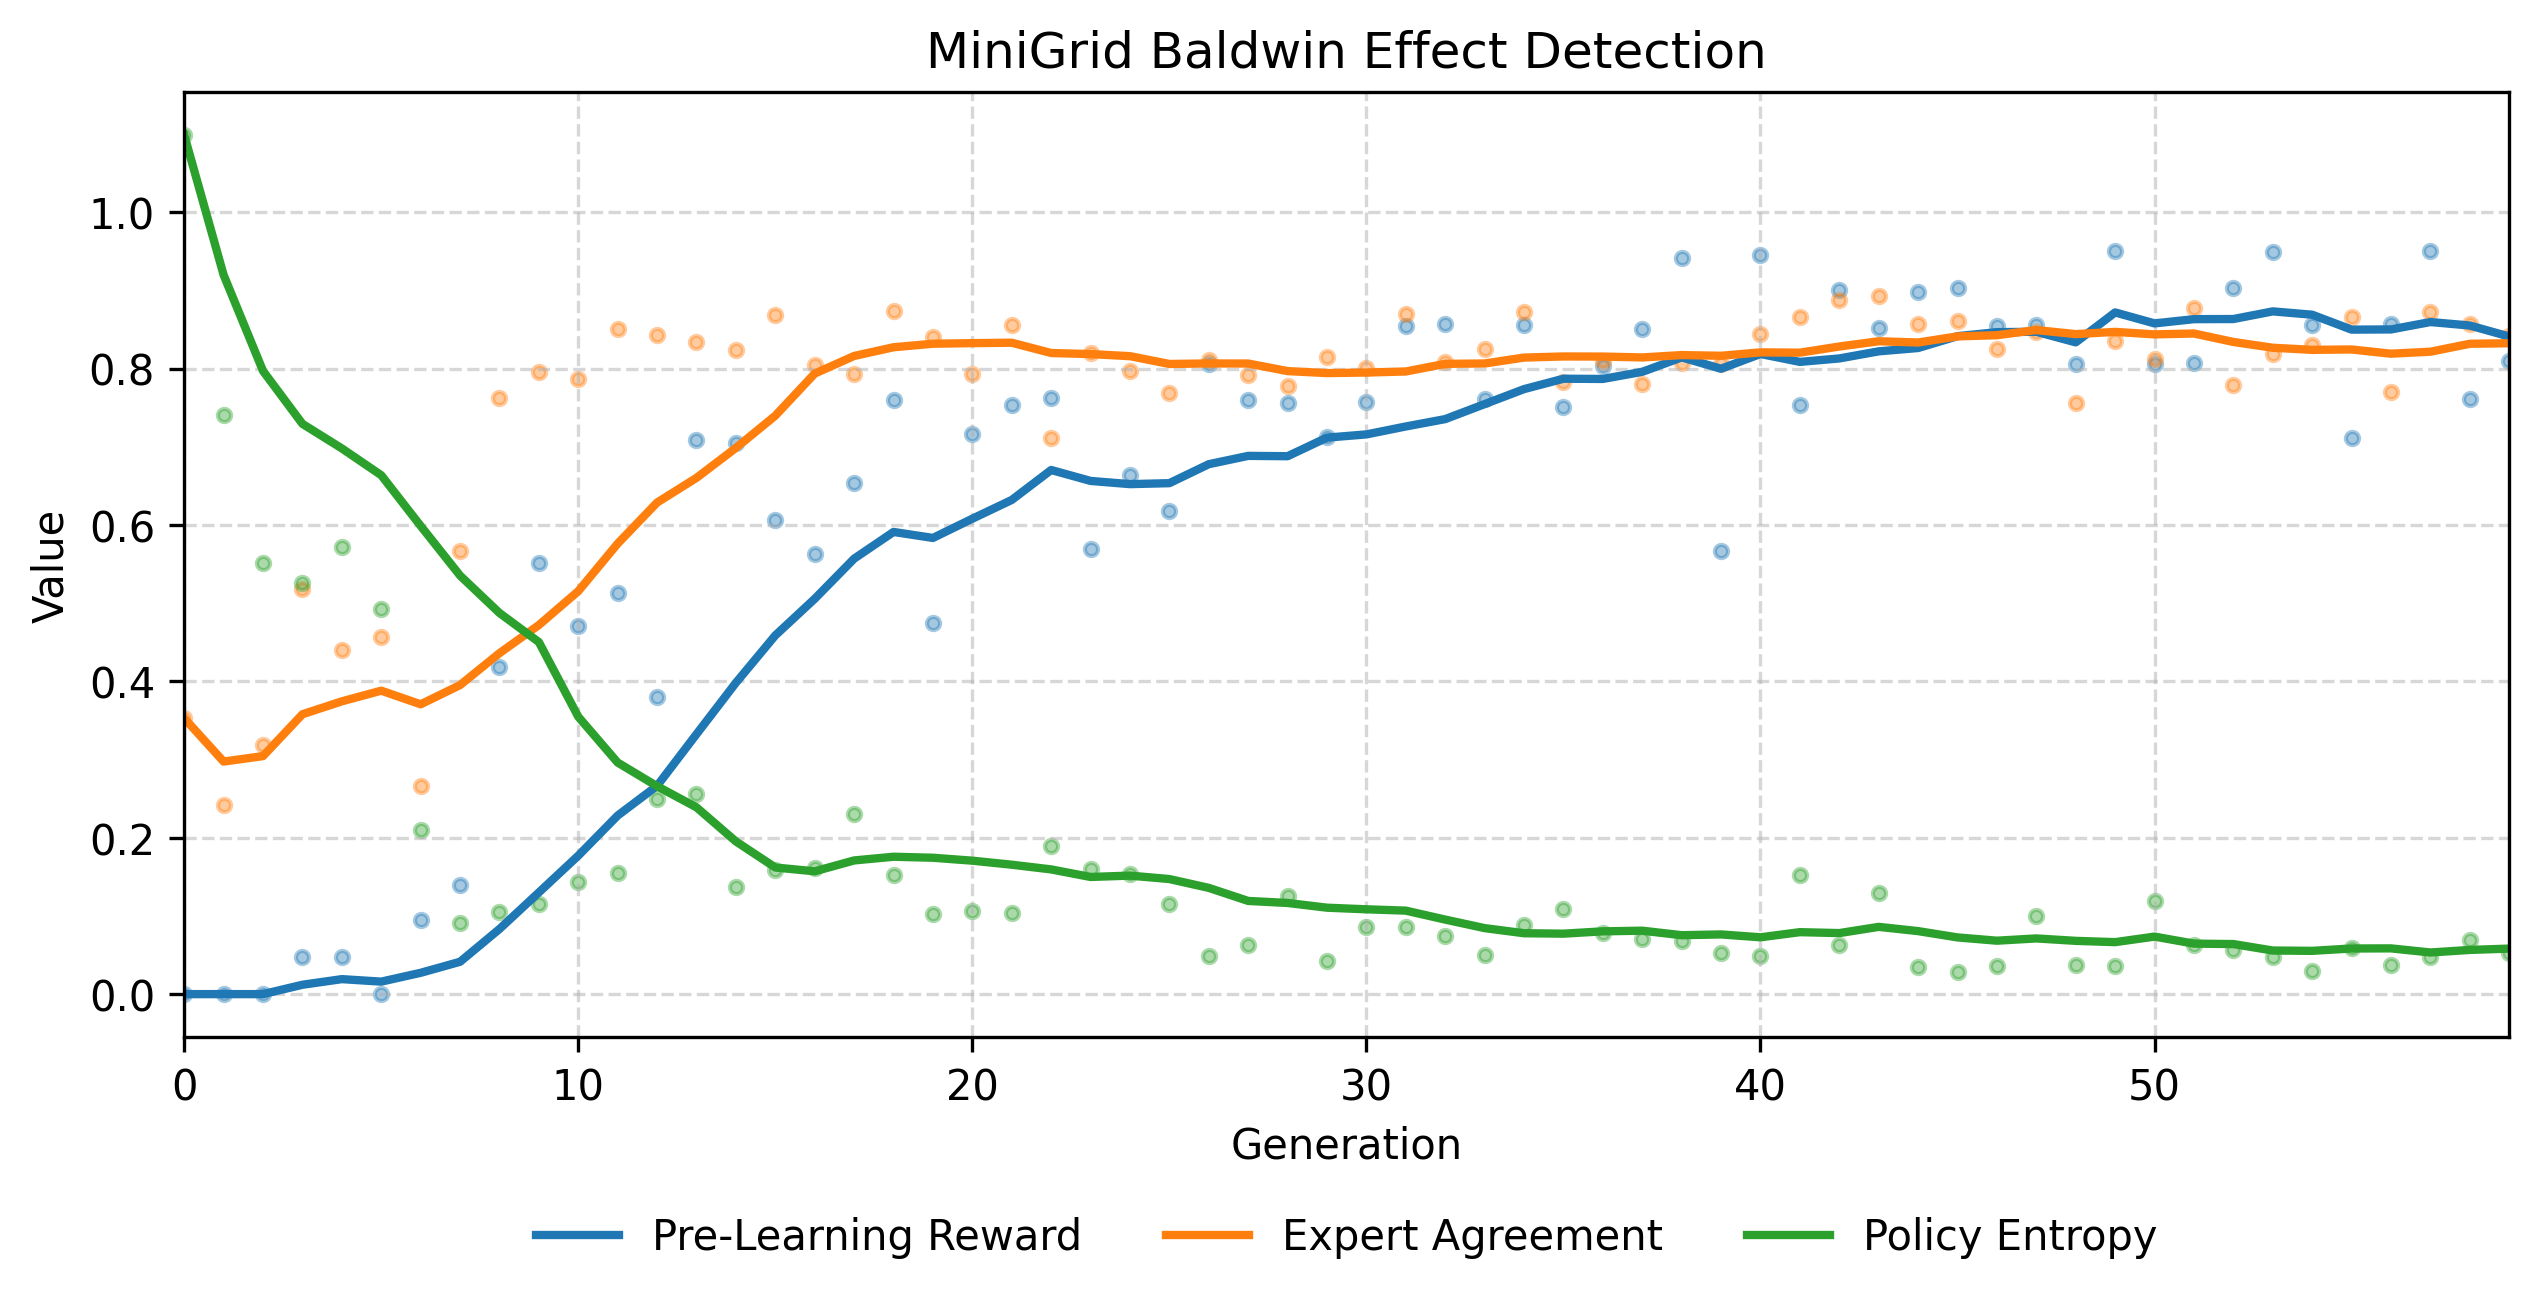
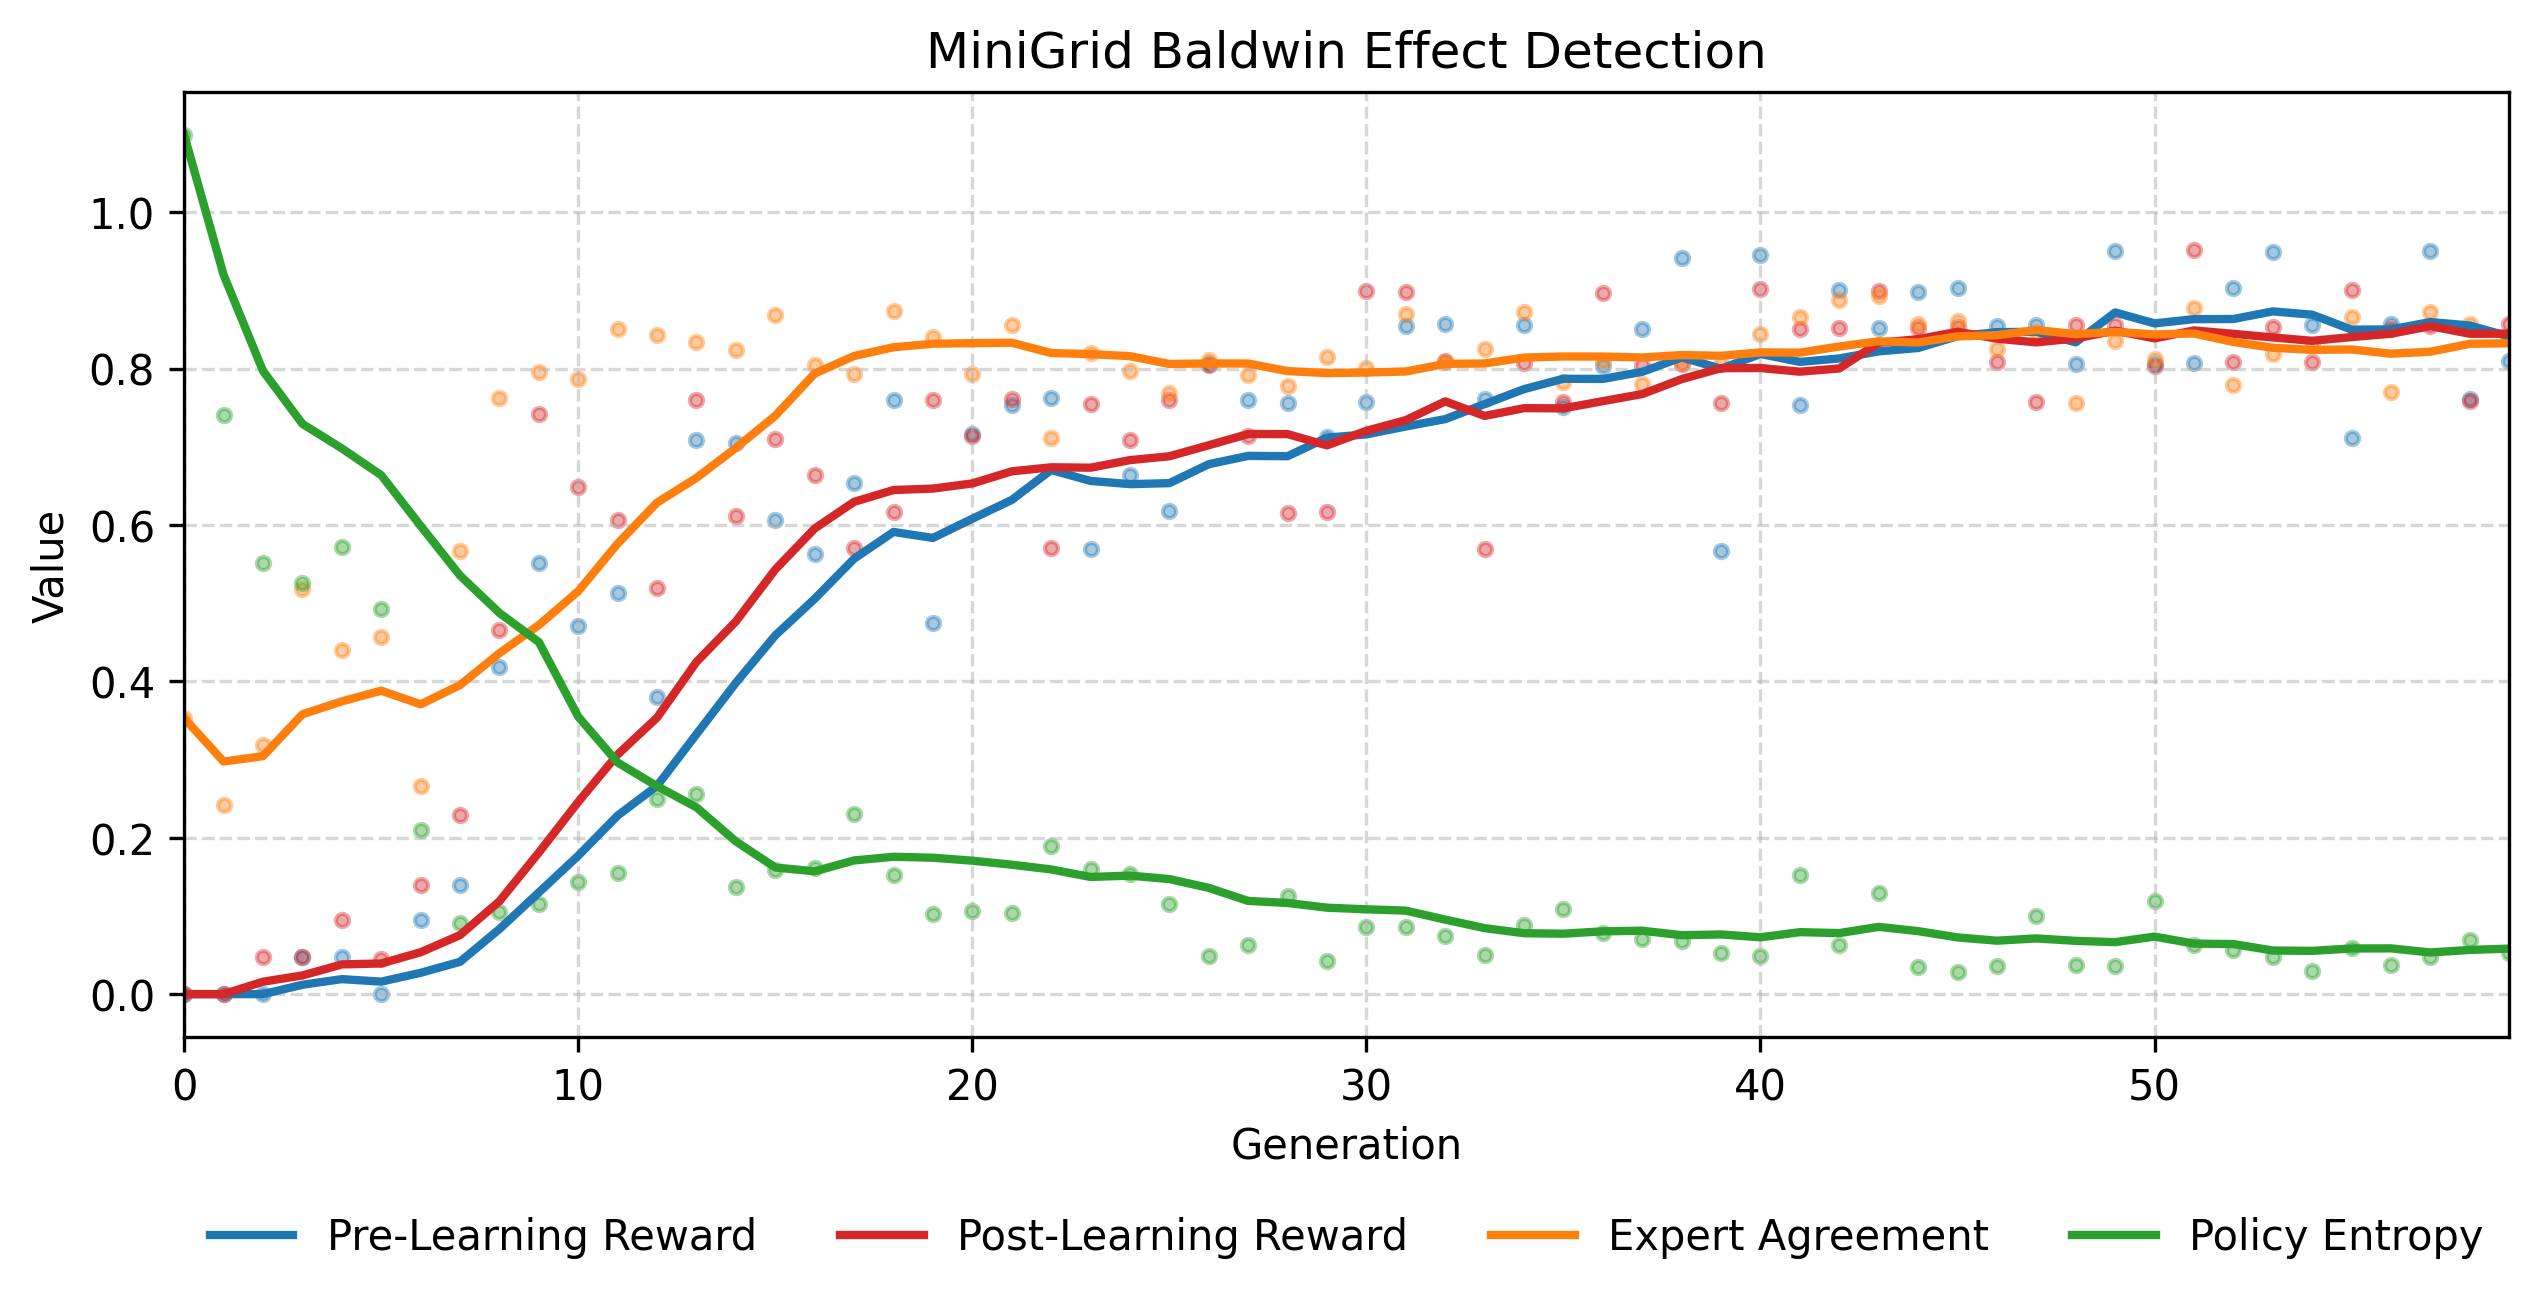
Added results images and csv files

diff --git a/MiniGrid/MGPlotting.py b/MiniGrid/MGPlotting.py
@@ -2,7 +2,6 @@ from collections import defaultdict
 import numpy as np
 import pandas as pd
 import matplotlib.pyplot as plt
-import seaborn as sns
 
 
 def aggregate_by_iteration(callback):
@@ -52,26 +51,25 @@ def plot_learning_curve(callback):
     plt.show()
 
 
-def plot_metrics(avg_pre_rewards, avg_agreements, avg_entropies, window=10):
+def plot_metrics(avg_post_rewards, avg_pre_rewards, avg_agreements, avg_entropies, window=10):
     generations = np.array(avg_pre_rewards.index)
 
     pre_rewards = np.array(avg_pre_rewards)
+    post_rewards = np.array(avg_post_rewards)
     agreements = np.array(avg_agreements)
     entropies = np.array(avg_entropies)
 
-    # Correct moving averages
+    # Moving averages
     pre_smooth = moving_average(pre_rewards, window)
+    post_smooth = moving_average(post_rewards, window)
     agree_smooth = moving_average(agreements, window)
     entropy_smooth = moving_average(entropies, window)
 
     plt.figure(figsize=(10, 5))
 
-    # Raw points
     plt.scatter(generations, pre_rewards, color="#1f77b4", s=10, alpha=0.4)
-    plt.scatter(generations, agreements, color="#ff7f0e", s=10, alpha=0.4)
-    plt.scatter(generations, entropies, color="#2ca02c", s=10, alpha=0.4)
+    plt.scatter(generations, post_rewards, color="#d62728", s=10, alpha=0.4)
 
-    # Smoothed lines
     plt.plot(
         generations,
         pre_smooth,
@@ -79,6 +77,36 @@ def plot_metrics(avg_pre_rewards, avg_agreements, avg_entropies, window=10):
         linewidth=2,
         label="Pre-Learning Reward",
     )
+
+    plt.plot(
+        generations,
+        post_smooth,
+        color="#d62728",
+        linewidth=2,
+        label="Post-Learning Reward",
+    )
+
+    plt.xlabel("Generation")
+    plt.ylabel("Reward")
+    plt.title("MiniGrid Reward Trends")
+    plt.xlim(0, generations.max())
+
+    plt.legend(frameon=False)
+    plt.grid(True, linestyle="--", alpha=0.5)
+
+    plt.savefig(
+        "Data/Figures/Minigrid_Rewards.png",
+        dpi=300,
+        bbox_inches="tight",
+    )
+
+    plt.show()
+
+    plt.figure(figsize=(10, 5))
+
+    plt.scatter(generations, agreements, color="#ff7f0e", s=10, alpha=0.4)
+    plt.scatter(generations, entropies, color="#2ca02c", s=10, alpha=0.4)
+
     plt.plot(
         generations,
         agree_smooth,
@@ -86,6 +114,7 @@ def plot_metrics(avg_pre_rewards, avg_agreements, avg_entropies, window=10):
         linewidth=2,
         label="Expert Agreement",
     )
+
     plt.plot(
         generations,
         entropy_smooth,
@@ -96,15 +125,18 @@ def plot_metrics(avg_pre_rewards, avg_agreements, avg_entropies, window=10):
 
     plt.xlabel("Generation")
     plt.ylabel("Value")
-    plt.title("MiniGrid Baldwin Effect Detection")
+    plt.title("MiniGrid Behaviour Trends")
     plt.xlim(0, generations.max())
 
-    plt.legend(loc="upper center", bbox_to_anchor=(0.5, -0.15), ncol=3, frameon=False)
-
+    plt.legend(frameon=False)
     plt.grid(True, linestyle="--", alpha=0.5)
-    plt.subplots_adjust(bottom=0.25)
 
-    plt.savefig("Data/Figures/Minigrid_Metrics.png", dpi=300, bbox_inches="tight")
+    plt.savefig(
+        "Data/Figures/Minigrid_Behaviour.png",
+        dpi=300,
+        bbox_inches="tight",
+    )
+
     plt.show()
     
 
@@ -118,7 +150,6 @@ def plot_policy_analysis(csv_path):
     )
 
     plt.figure(figsize=(14, 7))
-    sns.set(style="whitegrid", context="talk")
 
     before = summary[summary["target_phase"] == "before"]
     after = summary[summary["target_phase"] == "after"]
@@ -153,11 +184,12 @@ def plot_policy_analysis(csv_path):
 def main() -> None:
     data = pd.read_csv("Data/Statistics/minigrid_stats.csv")
     grouped = data.groupby("generation").mean(numeric_only=True)
+    post_rewards = grouped["post_learn_reward"]
     pre_rewards = grouped["pre_learn_reward"]
     agreements = grouped["agreement"]
     entropies = grouped["entropy"]
 
-    plot_metrics(pre_rewards, agreements, entropies)
+    plot_metrics(post_rewards, pre_rewards, agreements, entropies)
 
 
 if __name__ == "__main__":
